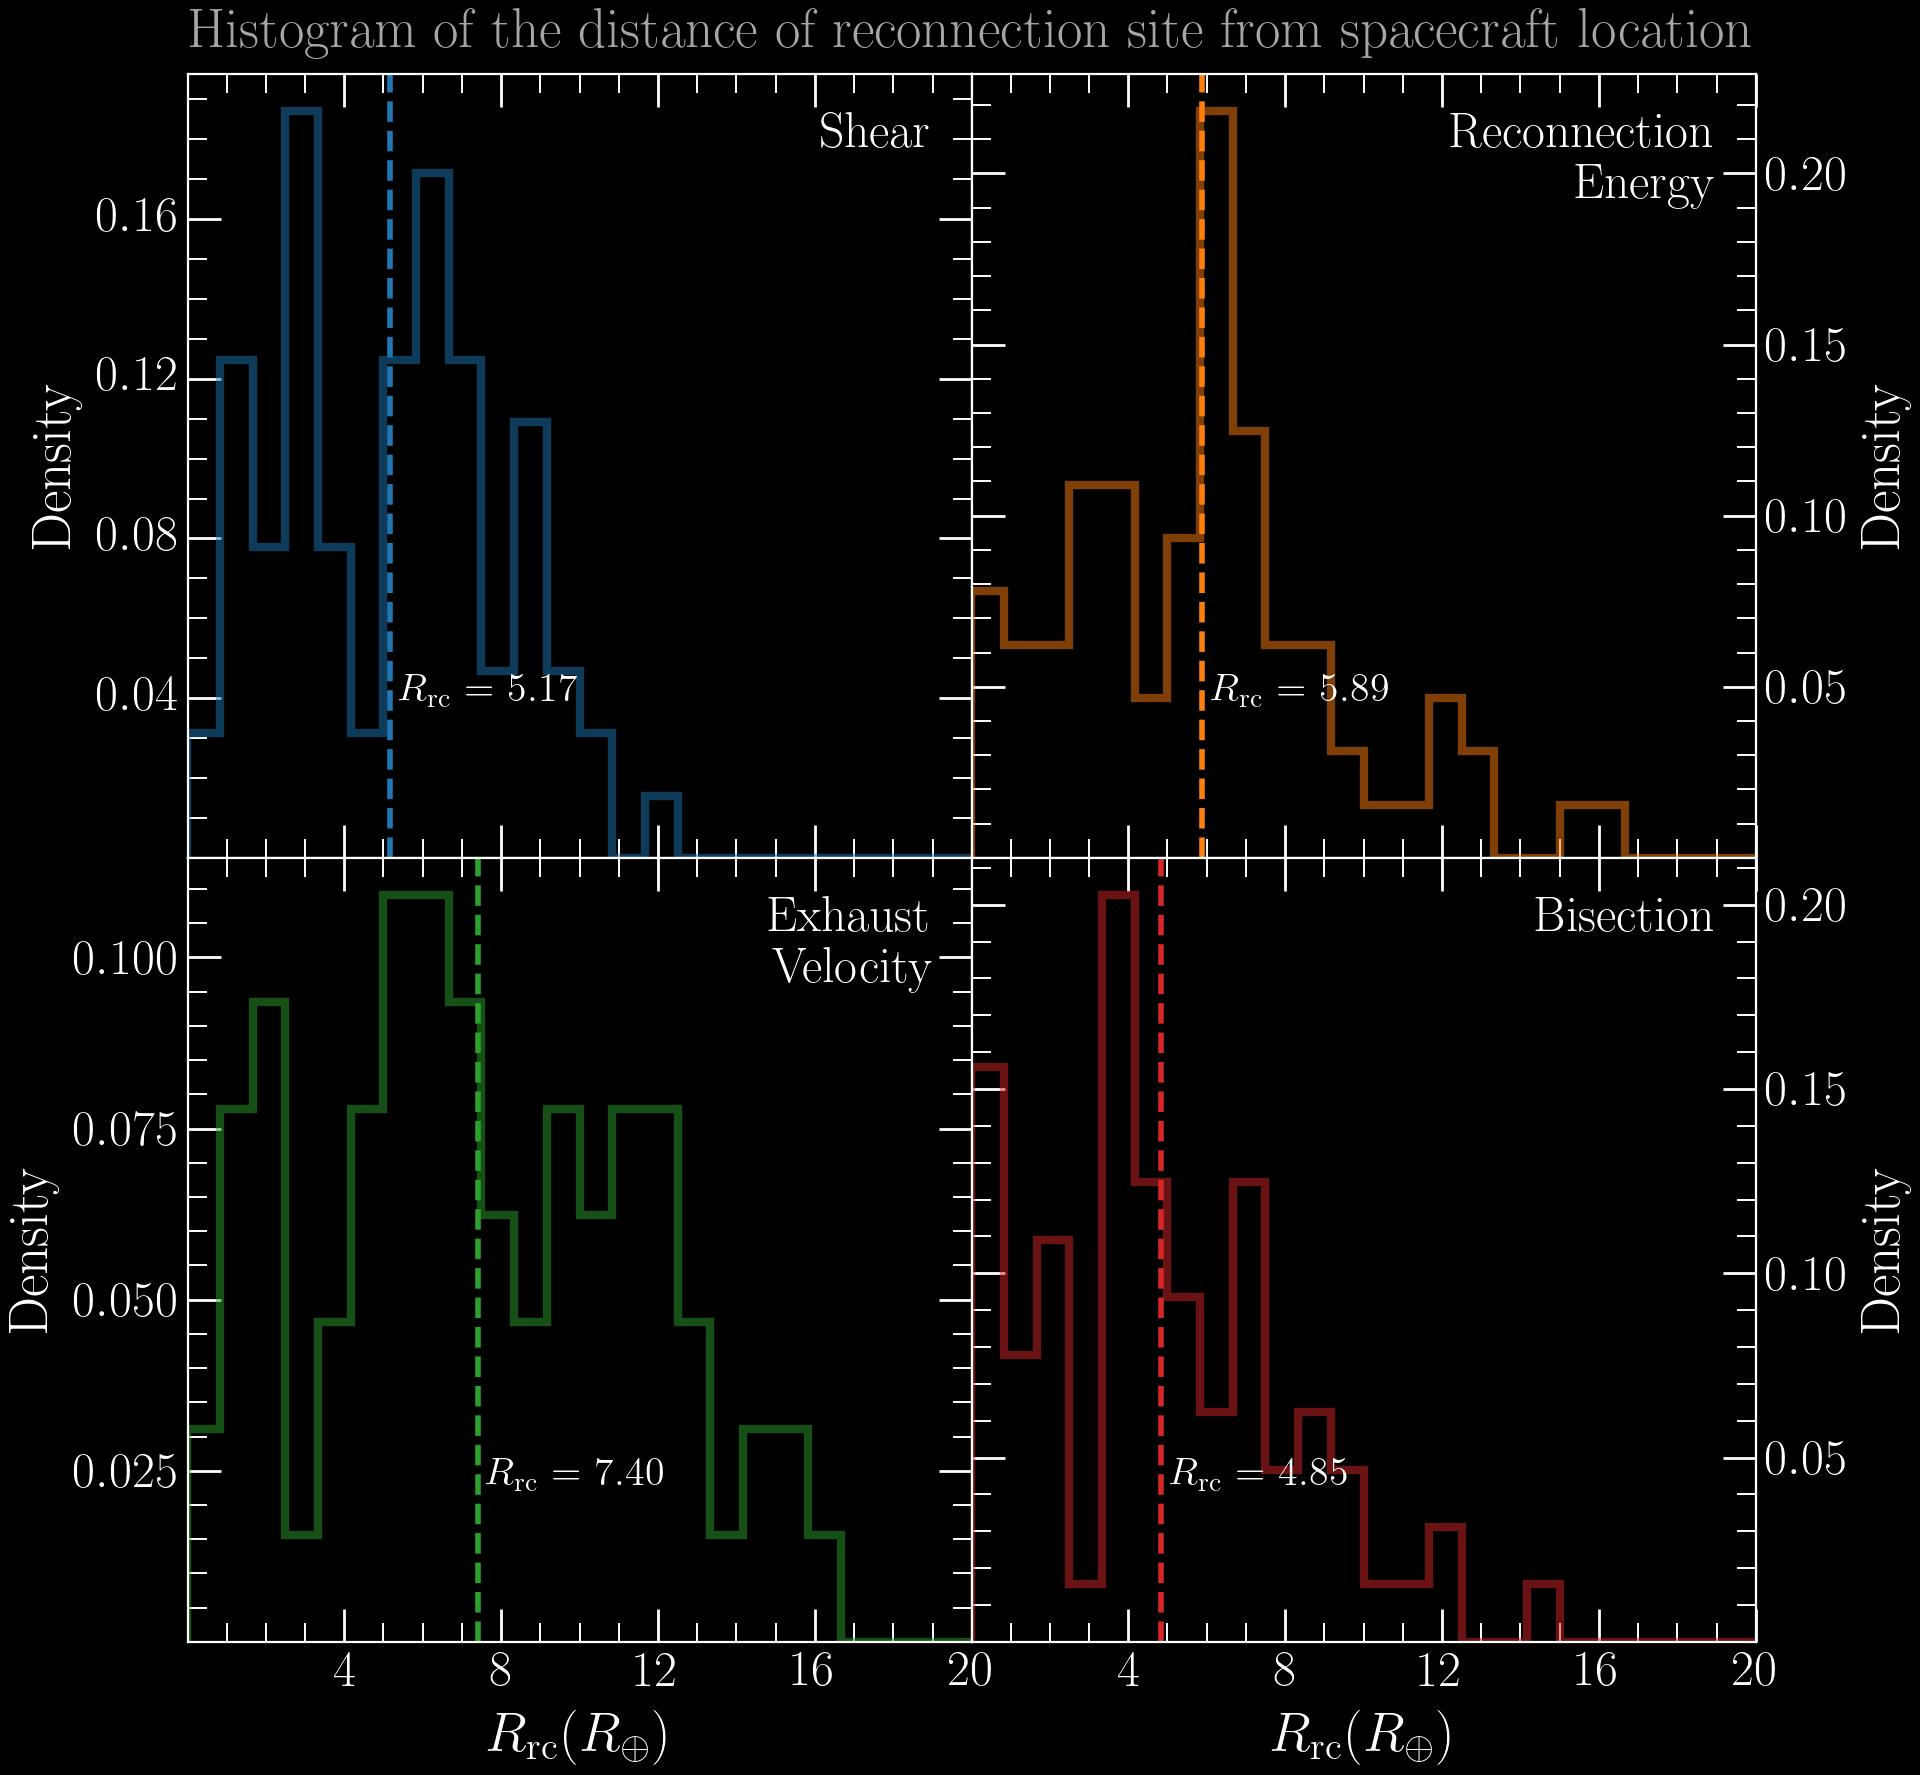
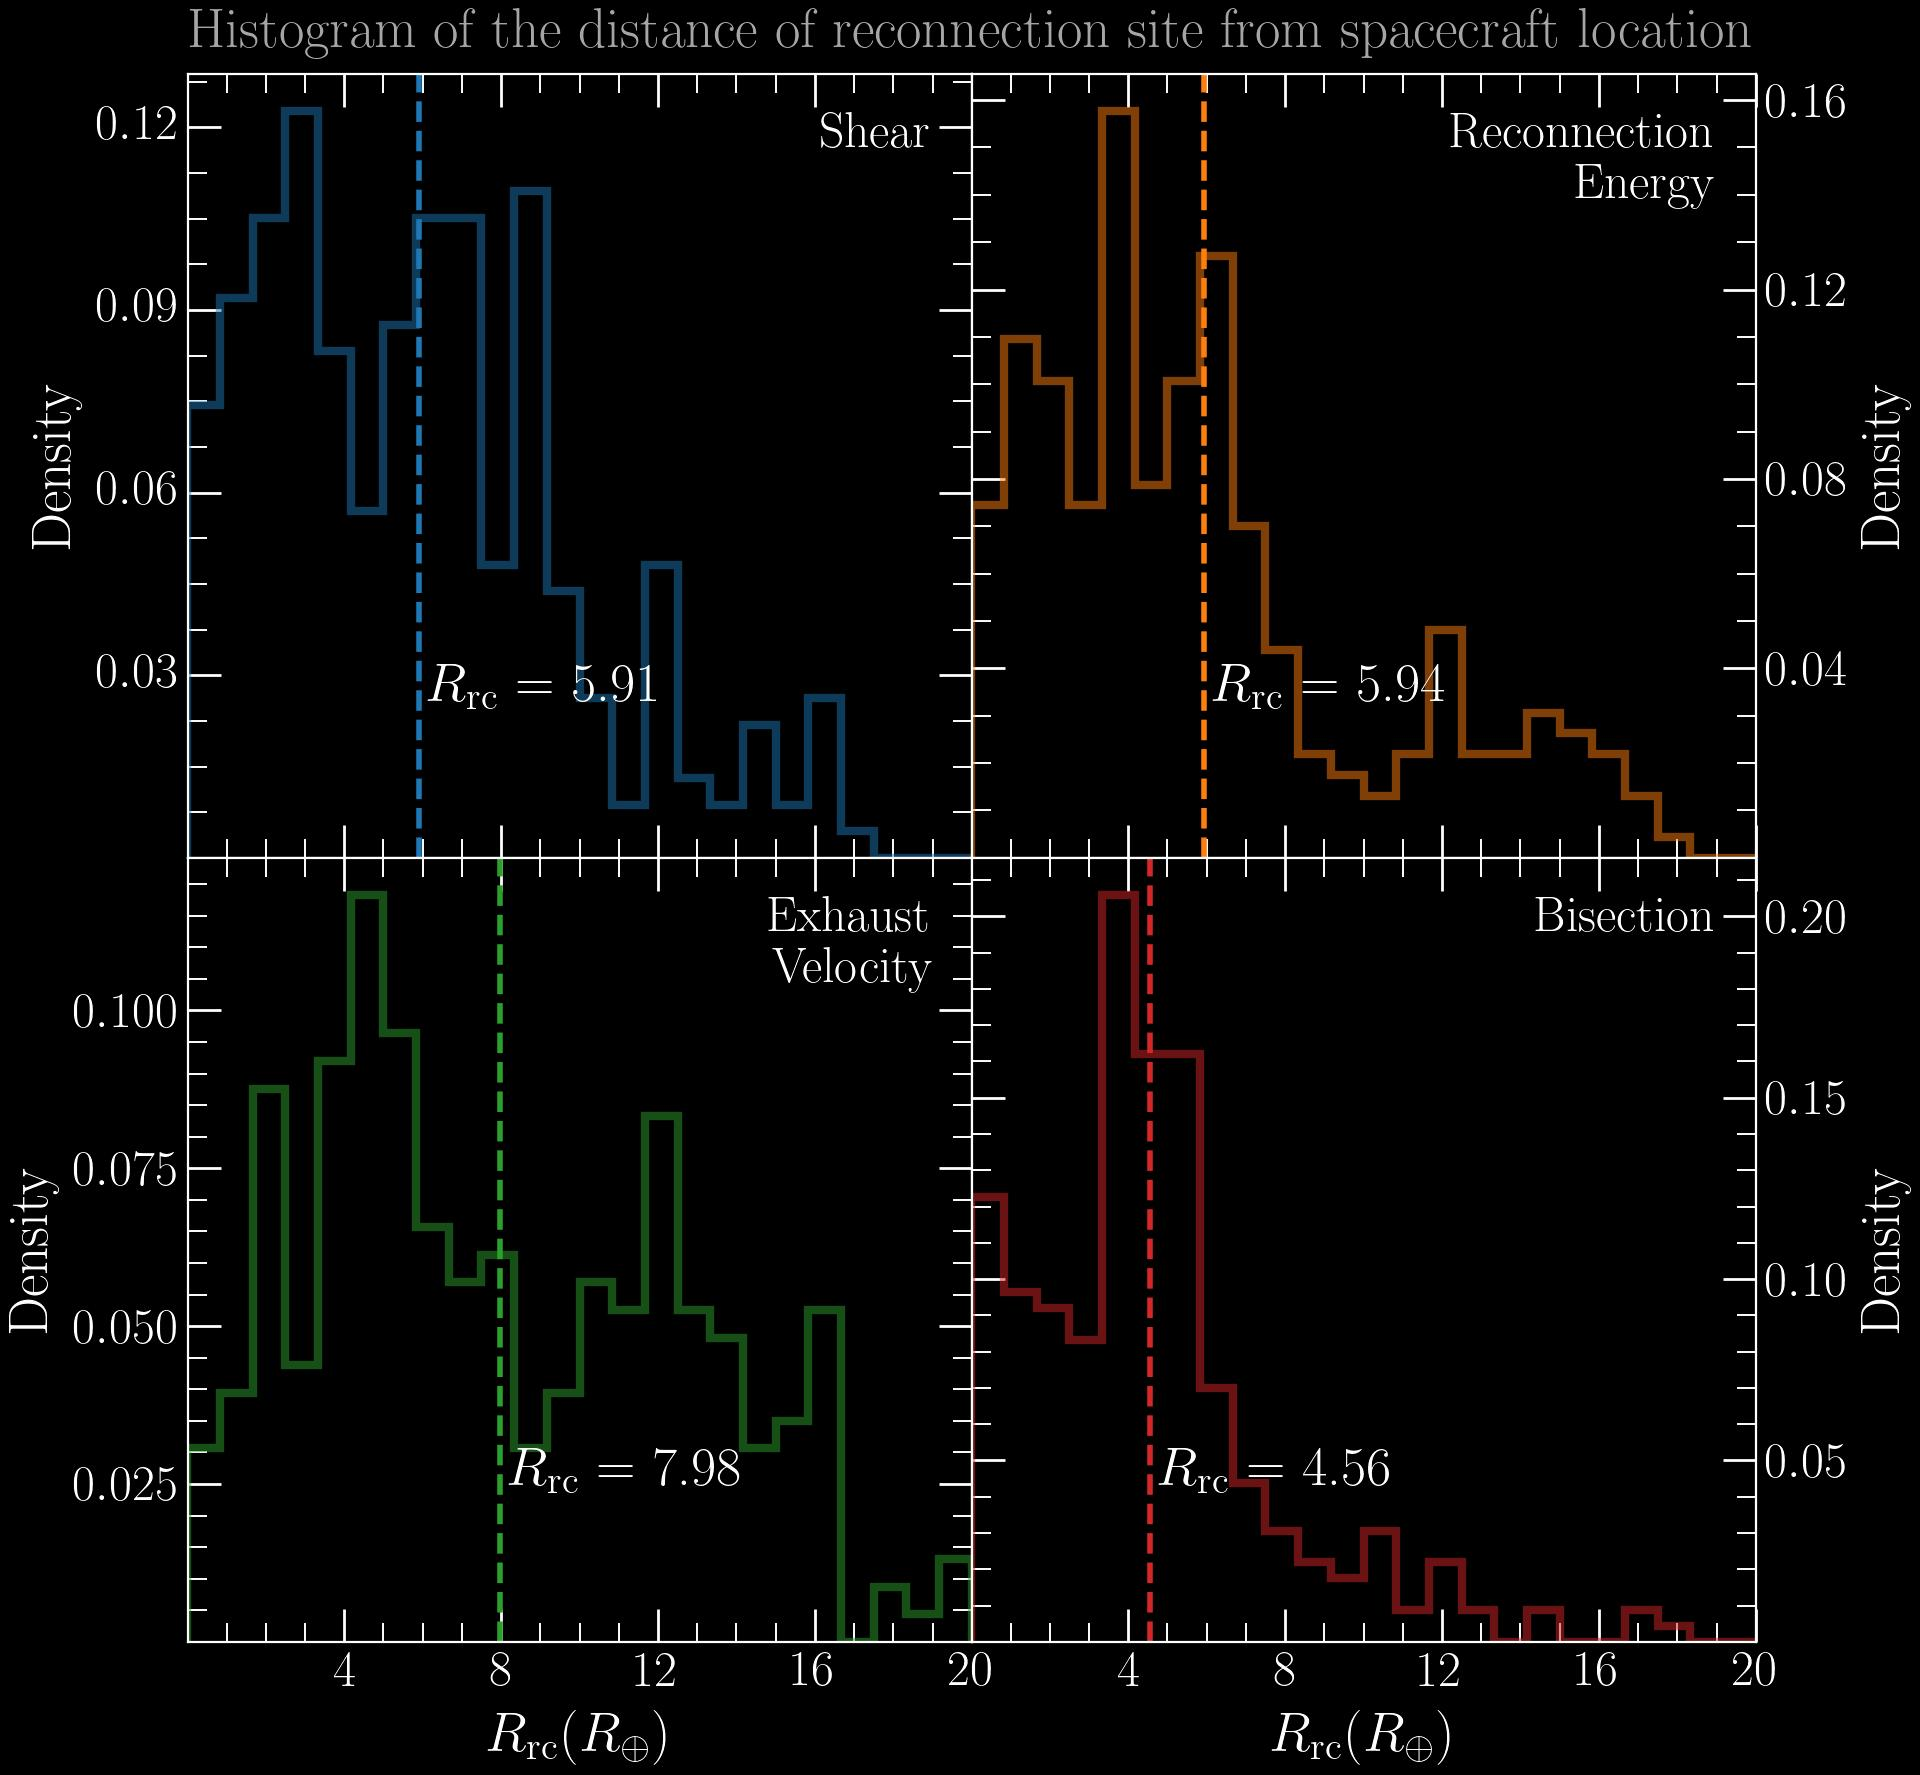
modified:   rc_stats_fncs.py 	modified:   ../figures/rx_hist/rx_hist_v14/rx_hist_20221109_bz.jpg 	modified:   ../figures/rx_hist/rx_hist_v14/rx_hist_20221109_bz_neg.jpg 	modified:   ../figures/rx_hist/rx_hist_v14/rx_hist_20221109_bz_pos.jpg

diff --git a/codes/rc_stats_fncs.py b/codes/rc_stats_fncs.py
@@ -49,17 +49,17 @@ def plot_hist(file_name, fig_size=(6, 6), dark_mode=True, bins=8, fig_folder="..
     cone_angle_bisec = np.arccos(df_bisec.b_imf_x / np.sqrt(
                             df_bisec.b_imf_x**2 +df_bisec.b_imf_y**2+ df_bisec.b_imf_z**2)) * 180 / np.pi
 
-    df_shear["cone_angle"] = cone_angle_shear
-    df_rx_en["cone_angle"] = cone_angle_rx_en
-    df_va_cs["cone_angle"] = cone_angle_va_cs
-    df_bisec["cone_angle"] = cone_angle_bisec
+    #df_shear["cone_angle"] = cone_angle_shear
+    #df_rx_en["cone_angle"] = cone_angle_rx_en
+    #df_va_cs["cone_angle"] = cone_angle_va_cs
+    #df_bisec["cone_angle"] = cone_angle_bisec
 
 
     # Select data where cone angle is between 0 and 90 degrees
-    df_shear = df_shear[(df_shear.cone_angle >= 30) & (df_shear.cone_angle <= 90)]
-    df_rx_en = df_rx_en[(df_rx_en.cone_angle >= 30) & (df_rx_en.cone_angle <= 90)]
-    df_va_cs = df_va_cs[(df_va_cs.cone_angle >= 30) & (df_va_cs.cone_angle <= 90)]
-    df_bisec = df_bisec[(df_bisec.cone_angle >= 30) & (df_bisec.cone_angle <= 90)]
+    #df_shear = df_shear[(df_shear.cone_angle >= 30) & (df_shear.cone_angle <= 90)]
+    #df_rx_en = df_rx_en[(df_rx_en.cone_angle >= 30) & (df_rx_en.cone_angle <= 90)]
+    #df_va_cs = df_va_cs[(df_va_cs.cone_angle >= 30) & (df_va_cs.cone_angle <= 90)]
+    #df_bisec = df_bisec[(df_bisec.cone_angle >= 30) & (df_bisec.cone_angle <= 90)]
 
     if cut_type == "bz_neg":
         df_shear = df_shear[df_shear["b_imf_z"] < 0]
